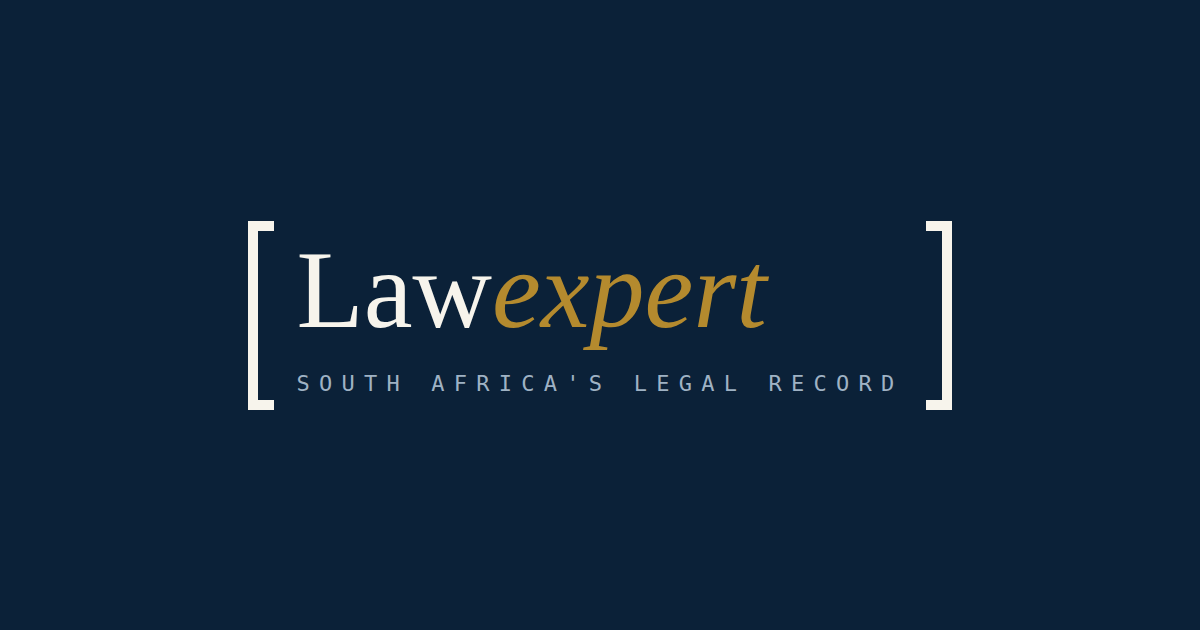
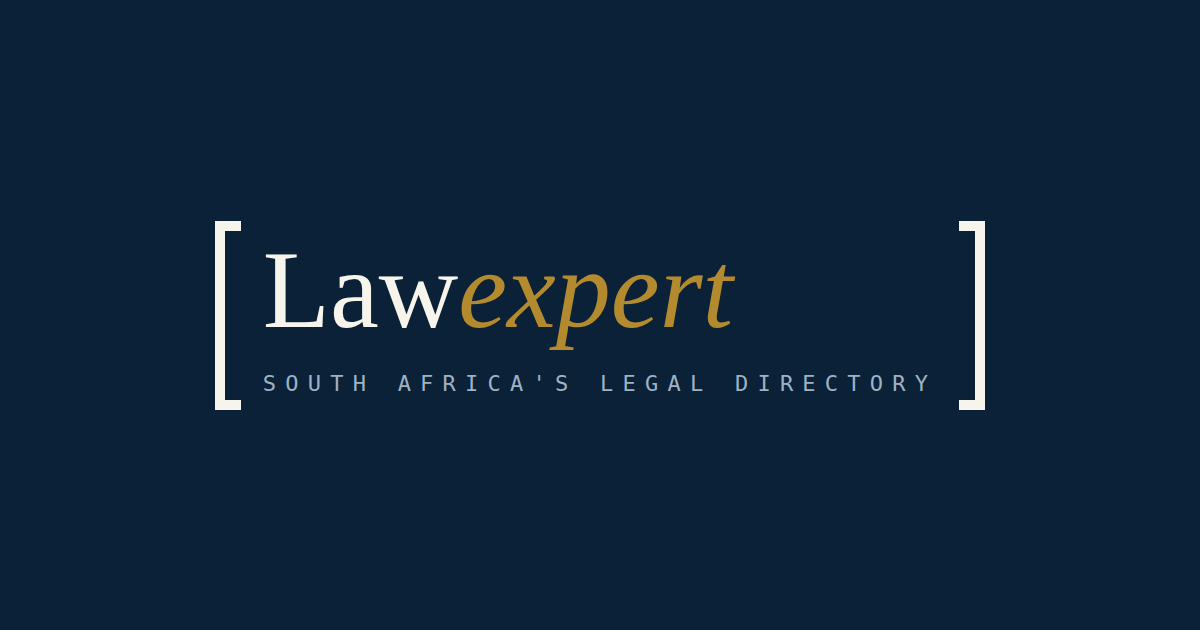
Redesign: citation-bracket identity, Chancery Blue tokens, professional-first messaging (#2)
- Drop 'verified/vetted' claims and linked-cases emphasis site-wide
- Hero: 'Every legal professional in South Africa. Searchable by expertise.'
  with professions eyebrow; search placeholder now practice area/name/location
- Meta/OG descriptions, footer, CTA, profile eyebrows and search microcopy
  updated to aggregation positioning; 'Verified Listing' -> 'Active Listing'
- Lockup/logo/OG tagline: 'South Africa's Legal Directory'
- Reported-cases sections remain where data exists, no longer marketed

Changed region(s): [[0.1542, 0.3317, 0.8325, 0.6635]]

diff --git a/src/routes/index.tsx b/src/routes/index.tsx
@@ -6,15 +6,14 @@ import { supabase } from "../integrations/supabase/client";
 import { PROVINCES } from "../lib/constants";
 import { getPracticeAreaIcon } from "../lib/practice-area-icons";
 import { SimpleSelect } from "../components/SimpleSelect";
-import { VerifiedMark } from "../components/BrandMark";
 
 export const Route = createFileRoute("/")({
   head: () => ({
     meta: [
       { title: "Lawexpert.co.za | South Africa's Legal Directory" },
-      { name: "description", content: "Search verified South African attorneys and advocates by practice area, province, and reported cases. Find the right counsel — backed by their case record." },
+      { name: "description", content: "South Africa's comprehensive directory of legal professionals. Search attorneys, advocates, expert witnesses, mediators and arbitrators by expertise, province and name." },
       { property: "og:title", content: "Lawexpert.co.za | South Africa's Legal Directory" },
-      { property: "og:description", content: "Verified profiles. Linked cases. South Africa's legal directory." },
+      { property: "og:description", content: "South Africa's comprehensive directory of legal professionals, searchable by expertise." },
     ],
   }),
   component: HomePage,
@@ -77,13 +76,13 @@ function HomePage() {
       <section className="relative bg-brand-deep">
         <div className="mx-auto max-w-4xl px-4 pb-16 pt-16 text-center sm:px-6 md:pb-24 md:pt-24">
           <p className="eyebrow animate-hero-rise text-paper-ivory/70">
-            Verified profiles · Linked cases
+            Attorneys · Advocates · Experts · Mediators · Arbitrators
           </p>
           <h1
             className="animate-hero-rise mx-auto mt-5 max-w-3xl font-heading leading-[1.15] text-paper-ivory [animation-delay:80ms]"
             style={{ fontSize: "clamp(30px, 4.5vw, 46px)" }}
           >
-            Choose counsel the way the profession does — by the record.
+            Every legal professional in South Africa. Searchable by expertise.
           </h1>
           <p className="animate-hero-rise mx-auto mt-5 max-w-2xl text-base leading-relaxed text-paper-ivory/75 [animation-delay:160ms]">
             South Africa has a split legal profession. Choose who you need — then search a
@@ -97,7 +96,7 @@ function HomePage() {
             className="animate-hero-rise panel-elevated mx-auto mt-9 flex max-w-2xl rounded bg-paper-white p-1.5 [animation-delay:240ms]"
           >
             <label htmlFor="hero-search" className="sr-only">
-              Search by practice area, name, or case citation
+              Search by practice area, name, or location
             </label>
             <input
               id="hero-search"
@@ -105,7 +104,7 @@ function HomePage() {
               value={heroQ}
               onChange={(e) => setHeroQ(e.target.value)}
               maxLength={120}
-              placeholder="Practice area, name, or case citation…"
+              placeholder="Practice area, name, or location…"
               className="min-w-0 flex-1 bg-transparent px-4 py-3 text-[15px] text-ink placeholder:text-ink-muted focus:outline-none"
             />
             <button
@@ -223,7 +222,7 @@ function HomePage() {
           <h2 className="font-heading text-3xl md:text-[34px]">List your firm on Lawexpert.co.za</h2>
           <p className="mx-auto mt-4 max-w-2xl leading-relaxed text-white/75">
             R160 per listing per month. First 3 months free — no credit card required.
-            Build trust with verified profiles and linked reported cases.
+            Put your professionals in front of clients searching by expertise.
           </p>
           <Link
             to="/register"
@@ -303,10 +302,7 @@ function ProfessionPanel({ kind, title, tagline, description, Icon, practiceArea
       </form>
 
       <div className="mt-5 flex items-center justify-between text-xs text-ink-muted">
-        <span className="inline-flex items-center gap-1.5">
-          <VerifiedMark size={14} />
-          Verified profiles · linked cases
-        </span>
+        <span className="font-mono">Every province · every practice area</span>
         <Link
           to="/search"
           search={{ type: kind } as never}

diff --git a/src/routes/lawyers.$slug.tsx b/src/routes/lawyers.$slug.tsx
@@ -7,13 +7,13 @@ import { toast } from "sonner";
 import { z } from "zod";
 import { sanitizeBioHtml } from "../lib/sanitize";
 import { formatDesignation, headBadges, designationKind } from "../lib/designation";
-import { BrandStrandDivider, VerifiedMark } from "../components/BrandMark";
+import { BrandStrandDivider } from "../components/BrandMark";
 
 export const Route = createFileRoute("/lawyers/$slug")({
   head: ({ params }) => ({
     meta: [
       { title: `${params.slug.replace(/-/g, " ")} — Lawexpert.co.za` },
-      { name: "description", content: "South African lawyer profile on Lawexpert.co.za with linked reported cases." },
+      { name: "description", content: "South African legal professional profile on Lawexpert.co.za — practice areas, experience and contact details." },
     ],
   }),
   component: LawyerProfile,
@@ -96,13 +96,12 @@ function LawyerProfile() {
             )}
 
             <div className="flex-1">
-              <p className="eyebrow mb-2 flex items-center gap-2 text-paper-ivory/75">
-                <VerifiedMark size={15} color="var(--paper-ivory)" />
+              <p className="eyebrow mb-2 text-paper-ivory/75">
                 {designationKind(lawyer.provider_type === "advocate" ? "advocate" : lawyer.designation) === "advocate"
-                  ? "Verified advocate"
+                  ? "[Advocate]"
                   : lawyer.is_mediator || lawyer.is_arbitrator
-                    ? "Verified professional"
-                    : "Verified attorney"}
+                    ? "[Professional]"
+                    : "[Attorney]"}
               </p>
               <div className="flex flex-wrap items-center gap-3">
                 <h1 className="font-heading text-3xl md:text-4xl">{lawyer.first_name} {lawyer.last_name}{lawyer.is_senior_counsel ? " SC" : ""}</h1>
@@ -370,7 +369,7 @@ function LawyerProfile() {
             <div className="rounded border border-rule bg-paper-white p-5">
               <h3 className="eyebrow text-ink">Status</h3>
               <p className="mt-2 text-sm capitalize text-foreground/80">
-                {lawyer.status === "trial" ? "Listed (Trial)" : "Verified Listing"}
+                {lawyer.status === "trial" ? "Listed (Trial)" : "Active Listing"}
               </p>
               {lawyer.linkedin_url && (
                 <a href={lawyer.linkedin_url} target="_blank" rel="noopener noreferrer" className="mt-3 block text-sm text-brand-primary transition-colors hover:text-brand-hover">

diff --git a/src/routes/__root.tsx b/src/routes/__root.tsx
@@ -58,13 +58,13 @@ export const Route = createRootRouteWithContext<{ queryClient: QueryClient }>()(
       { charSet: "utf-8" },
       { name: "viewport", content: "width=device-width, initial-scale=1" },
       { title: "Lawexpert.co.za | South Africa's Legal Directory" },
-      { name: "description", content: "South Africa's legal directory. Verified profiles. Linked cases. Find advocates and attorneys by practice area, province, and reported cases." },
+      { name: "description", content: "South Africa's comprehensive directory of legal professionals. Search attorneys, advocates, expert witnesses, mediators and arbitrators by expertise, province and name." },
       { property: "og:title", content: "Lawexpert.co.za | South Africa's Legal Directory" },
-      { property: "og:description", content: "South Africa's legal directory. Verified profiles. Linked cases. Find advocates and attorneys by practice area, province, and reported cases." },
+      { property: "og:description", content: "South Africa's comprehensive directory of legal professionals. Search attorneys, advocates, expert witnesses, mediators and arbitrators by expertise, province and name." },
       { property: "og:type", content: "website" },
       { name: "twitter:card", content: "summary_large_image" },
       { name: "twitter:title", content: "Lawexpert.co.za | South Africa's Legal Directory" },
-      { name: "twitter:description", content: "South Africa's legal directory. Verified profiles. Linked cases. Find advocates and attorneys by practice area, province, and reported cases." },
+      { name: "twitter:description", content: "South Africa's comprehensive directory of legal professionals. Search attorneys, advocates, expert witnesses, mediators and arbitrators by expertise, province and name." },
       { property: "og:image", content: "https://lawexpert.co.za/og-image.png" },
       { name: "twitter:image", content: "https://lawexpert.co.za/og-image.png" },
     ],

diff --git a/src/routes/search.tsx b/src/routes/search.tsx
@@ -4,7 +4,6 @@ import { useState, useEffect } from "react";
 import { supabase } from "../integrations/supabase/client";
 import { DESIGNATIONS } from "../lib/constants";
 import { designationKind, designationBadgeClass, yearsInPractice } from "../lib/designation";
-import { VerifiedMark } from "../components/BrandMark";
 import { Combobox } from "../components/Combobox";
 import { SortBar, type SortDir } from "../components/SortBar";
 import { Table, TableBody, TableCell, TableHead, TableHeader, TableRow } from "../components/ui/table";
@@ -308,7 +307,7 @@ function SearchPage() {
             })}
           </div>
           <p className="eyebrow text-paper-ivory/70">
-            {search.type === "advocate" ? "[Advocates] Members of the Bar" : "[Attorneys] Verified attorneys"}
+            {search.type === "advocate" ? "[Advocates] Members of the Bar" : "[Attorneys] Searchable by expertise"}
           </p>
           <h1 className="mt-2 font-heading text-3xl md:text-4xl">
             {search.type === "advocate" ? "Find an Advocate" : "Find an Attorney"}
@@ -534,7 +533,6 @@ function SearchPage() {
                     <div className="flex flex-row flex-wrap items-center gap-2 sm:shrink-0 sm:justify-end">
                       {caseCount > 0 && (
                         <span className="citation-chip">
-                          <VerifiedMark size={13} />
                           {caseCount} reported case{caseCount === 1 ? "" : "s"}
                         </span>
                       )}

diff --git a/src/routes/firms.index.tsx b/src/routes/firms.index.tsx
@@ -28,9 +28,9 @@ export const Route = createFileRoute("/firms/")({
   head: () => ({
     meta: [
       { title: "Browse Law Firms — Lawexpert.co.za" },
-      { name: "description", content: "Browse and search verified South African law firms by name, city, and province." },
+      { name: "description", content: "Browse and search South African law firms by name, city, and province." },
       { property: "og:title", content: "Browse Law Firms — Lawexpert.co.za" },
-      { property: "og:description", content: "Search verified South African law firms by name, city, and province." },
+      { property: "og:description", content: "Search South African law firms by name, city, and province." },
     ],
   }),
   component: FirmsIndex,
@@ -232,7 +232,7 @@ function FirmsIndex() {
           <p className="eyebrow text-paper-ivory/70">[Law Firms]</p>
           <h1 className="mt-2 font-heading text-3xl md:text-4xl">Find a Law Firm</h1>
           <p className="mt-2 max-w-2xl text-paper-ivory/75">
-            Search verified South African law firms by name, city and province.
+            Search South African law firms by name, city and province.
           </p>
           <div className="mt-6 panel-elevated rounded bg-paper-white p-3 text-ink">
             <form onSubmit={onSubmit} className="grid gap-2 sm:grid-cols-[1fr_auto]">

diff --git a/src/routes/expert-witnesses.index.tsx b/src/routes/expert-witnesses.index.tsx
@@ -31,7 +31,7 @@ export const Route = createFileRoute("/expert-witnesses/")({
       { title: "Find an Expert Witness — Lawexpert.co.za" },
       { name: "description", content: "Search South African expert witnesses across medicine, engineering, forensics, finance and more, with linked case appearances." },
       { property: "og:title", content: "Find an Expert Witness — Lawexpert.co.za" },
-      { property: "og:description", content: "Specialists across 50+ disciplines, with verified registration bodies and linked cases." },
+      { property: "og:description", content: "Specialists across 50+ disciplines, searchable by discipline and province." },
     ],
   }),
   component: ExpertWitnessSearch,

diff --git a/src/components/BrandMark.tsx b/src/components/BrandMark.tsx
@@ -52,7 +52,7 @@ export function LogoLockup({
             className="mt-[0.45em] font-mono uppercase leading-none"
             style={{ color: sub, fontSize: "0.55em", letterSpacing: "0.32em" }}
           >
-            South Africa's Legal Record
+            South Africa's Legal Directory
           </span>
         )}
       </span>
@@ -96,7 +96,7 @@ export function Monogram({ size = 28, className = "" }: { size?: number; classNa
 
 /**
  * Bracketed verification mark — square brackets enclosing a brass check.
- * Used beside "Verified practitioner" on profiles and search results.
+ * Available for future profile badging.
  */
 export function VerifiedMark({
   size = 16,

diff --git a/src/components/Footer.tsx b/src/components/Footer.tsx
@@ -11,9 +11,9 @@ export function Footer() {
               <LogoLockup variant="dark" tagline className="text-[15px]" />
             </Link>
             <p className="mt-4 font-mono text-xs leading-relaxed text-paper-ivory/60">
-              South Africa's legal directory.
+              South Africa's directory of
               <br />
-              Verified profiles. Linked cases.
+              legal professionals.
             </p>
           </div>
           <div>
